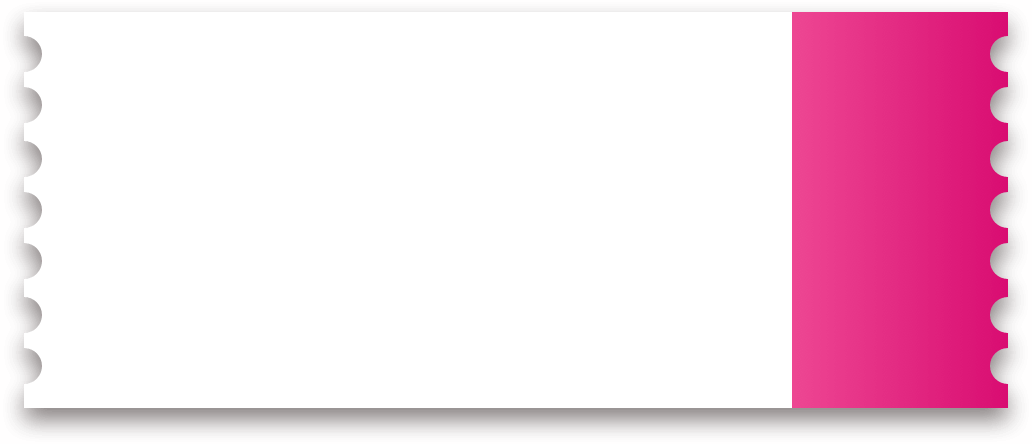
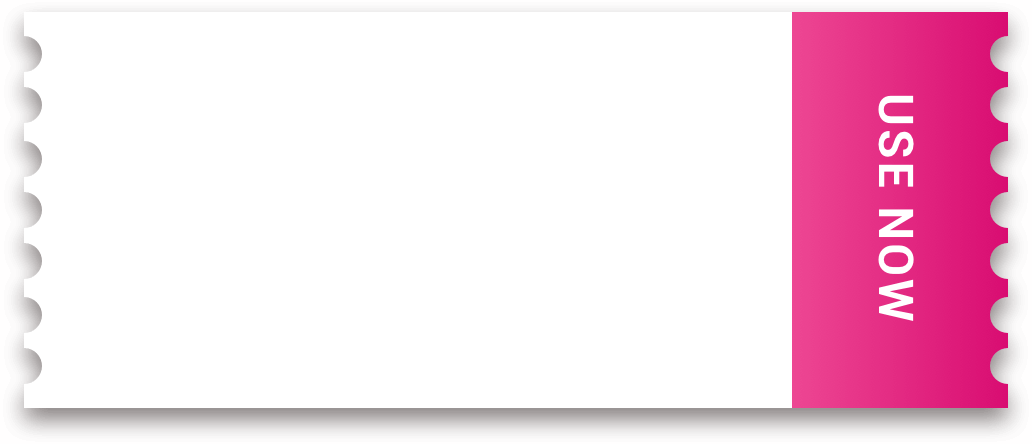
拉新活动布局

Changed region(s): [[0.8372, 0.4685, 0.8992, 0.732], [0.8372, 0.205, 0.8992, 0.4392]]

diff --git a/pages/hybrid/account/activateCard.vue b/pages/hybrid/account/activateCard.vue
@@ -27,7 +27,7 @@
                     </div>
                 </div>
                 <div v-show="type==2" class="decoder">
-                    <img src="~assets/img/dvb/ic_email.png" />
+                    <img src="~assets/img/dvb/ic_email.png" @click="showHow=true" />
                     <div>
                         <input v-model="decoderNum" placeholder="Enter your Smart Card number" />
                     </div>
@@ -42,7 +42,6 @@
                 <div class="coupon">
                     <h4>{{couponData.bonus_title}}</h4>
                     <p>{{couponData.use_condition}}</p>
-                    <span>USE NOW</span>
                 </div>
                 <div class="btn" @click="useNow">
                     <img src="~assets/img/dvb/Button-OK.png">
@@ -70,14 +69,24 @@
                 <span>OK</span>
             </div>
         </div>
+        <div v-show="showHow" class="decoder-card">
+            <img src="~assets/img/dvb/icon_smart_card.png">
+            <img src="~assets/img/naire/ic_popup_close.png" @click="showHow=false">
+        </div>
+        <shadowLayer v-show="showAlert || showHow" />
     </div>
 </template>
 <script>
 import countrys from '~/functions/countrys.json'
 import { callApp, callMarket, downApk } from '~/functions/app'
+import { setCookie, getCookie } from '~/functions/utils'
+import shadowLayer from '~/components/shadow-layer'
 
 export default {
     layout: 'base',
+    components: {
+        shadowLayer
+    },
     data() {
         const countryCode = this.$route.query.code || 'KE'
         const obj = {}
@@ -91,6 +100,7 @@ export default {
             phoneNum: '',
             decoderNum: '',
             showAlert: false,
+            showHow: false,
             getGiftSuccess: false,
             couponData: {},
             alertMessage: ''
@@ -100,9 +110,36 @@ export default {
         type(nv, ov) {
             if (nv == 1) this.oderNum = ''
             else this.phoneNum = ''
+        },
+        showAlert(nv, ov) {
+            this.fixedBody(nv)
+        },
+        showHow(nv, ov) {
+            this.fixedBody(nv)
+        }
+    },
+    mounted() {
+        const giftInfo = JSON.parse(getCookie('get-gift'))
+        if (giftInfo.id) {
+            this.getGiftSuccess = true
+            this.showAlert = true
+            this.couponData = giftInfo
+            this.alertMessage = "You've got the gift, please use it as quickly as you can."
         }
     },
     methods: {
+        fixedBody(nv) {
+            console.log(nv)
+            if (nv) {
+                document.body.style.overflow = 'hidden'
+                document.body.style.position = 'fixed'
+                document.body.style.left = 0
+                document.body.style.right = 0
+            } else {
+                document.body.style.overflow = 'auto'
+                document.body.style.position = 'static'
+            }
+        },
         useNow() {
             callApp.call(this, '', () => {
                 callMarket.call(this, () => {
@@ -142,6 +179,7 @@ export default {
                             this.showAlert = true
                             this.couponData = res.data.data
                             this.alertMessage = res.data.data.bonus_title
+                            setCookie('get-gift', JSON.stringify(res.data.data), 1000 * 60 * 60)
                         }
                     } else {
                         this.$alert(res.data.message)
@@ -289,7 +327,6 @@ export default {
                 background: url('~assets/img/dvb/coupon.png') no-repeat;
                 background-size: 100% 100%;
                 padding: 1rem 1.5rem 0.8rem;
-                position: relative;
                 h4 {
                     font-size: 1.25rem;
                     color: #333333;
@@ -303,15 +340,15 @@ export default {
                     width: 80%;
                     padding-bottom: 0.2rem;
                 }
-                span {
-                    color: #ffffff;
-                    font-weight: bold;
-                    position: absolute;
-                    right: 3%;
-                    top: 38%;
-                    transform: rotate(90deg);
-                    font-size: 0.85rem;
-                }
+                // span {
+                //     color: #ffffff;
+                //     font-weight: bold;
+                //     position: absolute;
+                //     right: 3%;
+                //     top: 38%;
+                //     transform: rotate(90deg);
+                //     font-size: 0.85rem;
+                // }
             }
         }
     }
@@ -349,22 +386,52 @@ export default {
         margin-left: -7.5rem;
         margin-top: -9rem;
         z-index: 999;
-        background: url('~assets/img/dvb/active_bg.png') no-repeat;
+        background: url('~assets/img/dvb/alert_bg.png') no-repeat;
         background-size: 100% 100%;
-        padding: 0 0.8rem;
+        padding: 0 1rem;
         text-align: center;
         border-radius: 5px;
         h4 {
             color: #000000;
-            font-size: 1.2rem;
+            font-size: 1.1rem;
             font-weight: bold;
-            height: 3rem;
-            line-height: 3rem;
+            margin: 1.7rem 0 4rem;
         }
         p {
             color: #ffffff;
             font-size: 0.95rem;
-            margin: 2rem 0;
+            line-height: 1.3rem;
+            min-height: 5rem;
+            max-height: 7rem;
+            overflow: scroll;
+            &::-webkit-scrollbar {
+                display: none;
+            }
+        }
+        .btn {
+            height: 2.2rem;
+            line-height: 2.2rem;
+            width: 90%;
+        }
+    }
+    .decoder-card {
+        width: 15rem;
+        height: 18rem;
+        line-height: 1.2rem;
+        position: fixed;
+        overflow: hidden;
+        top: 50%;
+        left: 50%;
+        margin-left: -7.5rem;
+        margin-top: -9rem;
+        z-index: 999;
+        text-align: center;
+        img {
+            width: 100%;
+            margin-bottom: 2rem;
+        }
+        img + img {
+            width: 2rem;
         }
     }
 }
